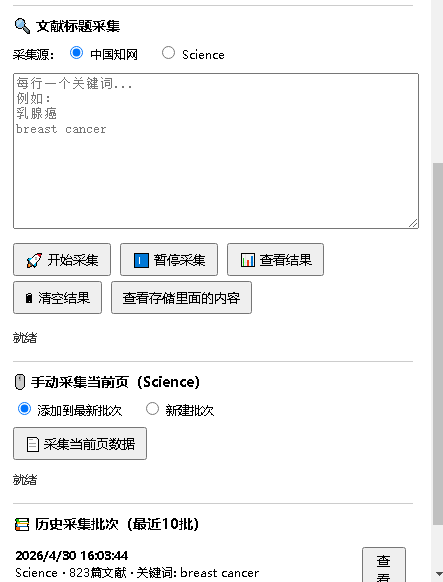
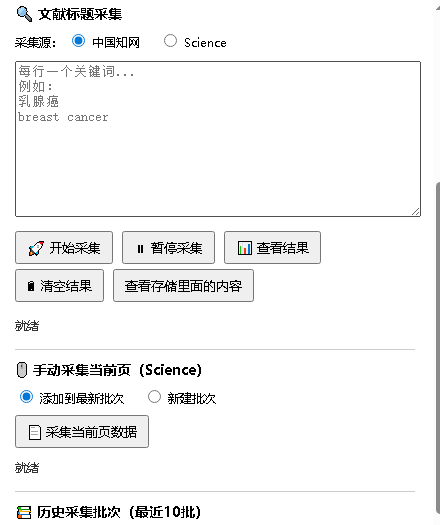
teach

diff --git a/README.md b/README.md
@@ -1,5 +1,6 @@
 # cnki-science-scholar-crawler
-知网-science文献采集浏览器插件
+
+知网·Science 文献采集浏览器插件
 
 # 🔍 AI-Assisted Literature Collector (AI学术文献采集助手)
 
@@ -10,7 +11,7 @@
 
 ![插件界面截图](/images/plugin-screenshot.png)
 
-# 文献智能采集助手
+## 文献智能采集助手
 
 本插件专为论文写作设计，能够快速、批量采集指定领域的学术文献（如知网、Science 等），并通过 AI 辅助分析与整理。
 
@@ -22,34 +23,71 @@
 ## ⚠ 当前限制
 
 插件尚未实现完全自动化，**部分操作仍需用户手动执行**。
-
+当前自动下载功能免费用户无法正常使用。
 ---
 
 ## 📖 使用教程
 
-### 第一步：生成关键词
+### 第一步：下载插件
+
+1. 点击 GitHub 页面右上角的 **Code** 按钮。
+2. 选择 **Download ZIP**。
+3. 将压缩包解压到一个自己熟悉的文件夹。
+
+![下载ZIP截图](/images/download-zip.png)
+
+### 第二步：导入与安装插件
+
+1. 使用 Chrome 或 360 浏览器，进入扩展程序管理页面（地址栏输入 `chrome://extensions/`）。
+2. **开启右上角的“开发者模式”**。
+
+   ![开发者模式截图](/images/developer-mode.png)
+
+3. 点击左上角 **“加载已解压的扩展程序”**，选择刚才解压的文件夹。
+4. 插件安装完成后，在浏览器右上角点击拼图图标，找到本插件，点击后面的 **固定** 按钮，将其固定到工具栏。
+
+   ![固定插件截图](/images/pin-plugin.png)
+
+5. 点击插件图标，即可显示采集主界面。
+
+   ![主界面截图](/images/plugin-screenshot.png)
+
+### 第三步：生成关键词
 
 让 AI（如 ChatGPT、Claude 等）根据你的论文主题，生成一批**合适的检索关键词**。
 
-> 建议每个检索式为 **2 个关键词组合**：  
-> - 1 个 → 搜索结果过多  
-> - 3 个 → 搜索结果过少  
-> - 2 个 → 最为理想
+> **关键词组合建议**  
+> - 1 个关键词 → 搜索结果过多  
+> - 3 个关键词 → 搜索结果过少  
+> - **2 个关键词 → 最为理想**
 
-### 第二步：复制关键词并开始采集
+如果需要用到英文文献，就让 AI 同时生成 **10 个中文关键词组合** + **10 个英文关键词组合**。
+
+### 第四步：复制关键词并开始采集
 
 1. 将 AI 生成的关键词（**一行一个**）复制到插件的搜索框中。
 2. 点击 **「开始采集」** 按钮。
 
-### 第三步：等待采集完成
+### 第五步：等待采集完成
 
-- 采集速度约为 **1 分钟处理 10–20 个关键词**（一行一个）。
+- 采集速度约为 **1 分钟处理 5–10 个关键词**（一行一个）。
+- 采集的时候只会翻页5次（如果要采集更多文献，就需要设置每页显示更多文献数量）。
 - 采集完成后，插件会弹出提示。
 
-### 第四步：查看与导出结果
+### 第六步：查看与导出结果
 
 1. 点击 **「查看批次」**。
 2. 点击 **「全屏」** 按钮，会在新标签页中打开采集结果。
+
+> **Science 数据库特殊操作**  
+> 由于 Science 网站频繁出现验证，无法自动采集。请手动将关键词一个个复制过去搜索，然后点击插件图标，将采集源切换到 **Science**，再点击 **「采集当前页数据」**。
+
+⚠ **批次管理**  
+- 可以点击 **「新建批次」** 创建新的采集任务。  
+- 也可以选择保存到 **最新的一个批次**。  
+- 若需重新采集或同时撰写多篇论文，建议新建批次。
+
+   ![批次管理截图](/images/batch-manager.png)
 
 ---
 
@@ -58,7 +96,7 @@
 - **自动导出的 CSV 文件** 格式存在特殊处理（为兼容 Excel 计算，避免科学计数法等问题），**不推荐直接使用**。
 - **推荐做法**：在全屏查看结果界面，**手动复制**所需内容到本地文件中，格式最稳定。
 
---- 
+---
 
 ## 💡 适用场景
 
@@ -66,37 +104,18 @@
 - 系统性文献回顾
 - 课题前期调研
 
+---
 
-## 💡 如果需要高级版本，请支付1USDT到下面的账号，并附带留言，之后会把你拉入GitHub的team
+## 💡 高级版本说明
 
+如需高级版本，请支付 **1 USDT** 到以下账户，并附带留言（GitHub 用户名或邮箱）。支付后您将被加入 GitHub 的团队，获得高级版访问权限。
 
-![USDT钱包收款地址图]
-<img src="/images/usdt.jpg" alt="USDT钱包收款地址图" width="300">
+![USDT钱包收款地址图](/images/usdt.jpg)
 
+**Payment Info:**
 
-💡 Payment Info:
+- **Network:** TRC20 (Tron)
+- **Address:** `TCn4F4T84fR6tq6maUFeUeLWbpAF9Ymofs`
+- **Memo:** Not required (None)
 
-Network: TRC20 (Tron)
-
-Address: TCn4F4T84fR6tq6maUFeUeLWbpAF9Ymofs
-
-Memo: Not required (None)
-
-Note: Please make sure you have ~30 TRX in your wallet for the gas fee if you are sending from a personal wallet.
-
-
-
-
-
-
-
-
-
-
-
-
-
-
-
-
-
+> **Note:** 如果您从个人钱包发送，请确保钱包中有约 30 TRX 作为手续费（gas fee）。
